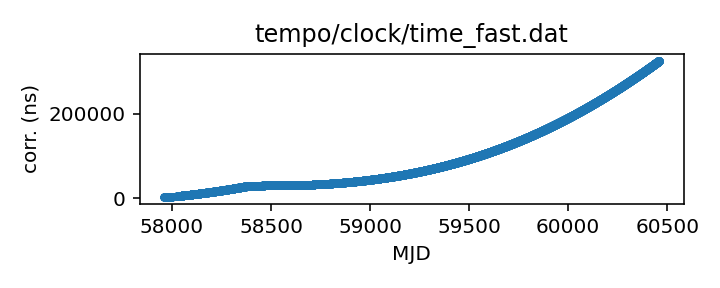
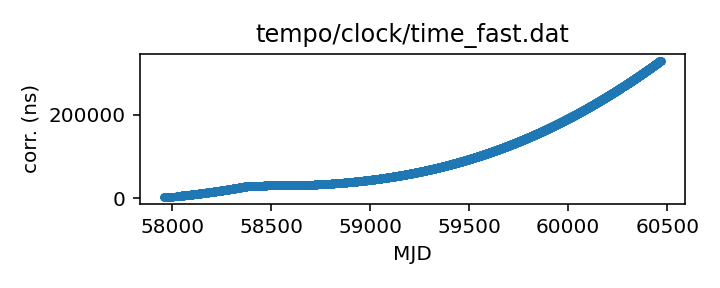
Routine gh-pages update from Github action Fri Jun  7 20:30:10 UTC 2024

diff --git a/status.md b/status.md
@@ -13,18 +13,18 @@ name of each clock file links to a page with more details.
 
 | Name | File | Corrections start | Corrections end | Last check date | Last check result 
 |:--- |:--- | --- | --- | --- |:--- 
-| [GPS to UTC](T2runtime/clock/gps2utc.clk.html) | `T2runtime/clock/gps2utc.clk` | 1993-01-01 MJD 48988.0 | 2024-04-29 MJD 60429.0 | 2024-06-06 | Unchanged 
-| [GPS to UTC (Combined Clock)](T2runtime/clock/gps2utc_cc.clk.html) | `T2runtime/clock/gps2utc_cc.clk` | 1993-01-01 MJD 48988.0 | 2024-04-29 MJD 60429.0 | 2024-06-06 | Unchanged 
-| [GPS to UTC (Corrected)](T2runtime/clock/gps2utc_c0p.clk.html) | `T2runtime/clock/gps2utc_c0p.clk` | 2010-12-29 MJD 55559.0 | 2024-04-29 MJD 60429.0 | 2024-06-06 | Unchanged 
-| [GBT](tempo/clock/time_gbt.dat.html) | `tempo/clock/time_gbt.dat` | 2000-12-31 MJD 51909.5 | 2024-05-18 MJD 60448.5 | 2024-06-06 | **Validation failed** 
+| [GPS to UTC](T2runtime/clock/gps2utc.clk.html) | `T2runtime/clock/gps2utc.clk` | 1993-01-01 MJD 48988.0 | 2024-04-29 MJD 60429.0 | 2024-06-07 | Unchanged 
+| [GPS to UTC (Combined Clock)](T2runtime/clock/gps2utc_cc.clk.html) | `T2runtime/clock/gps2utc_cc.clk` | 1993-01-01 MJD 48988.0 | 2024-04-29 MJD 60429.0 | 2024-06-07 | Unchanged 
+| [GPS to UTC (Corrected)](T2runtime/clock/gps2utc_c0p.clk.html) | `T2runtime/clock/gps2utc_c0p.clk` | 2010-12-29 MJD 55559.0 | 2024-04-29 MJD 60429.0 | 2024-06-07 | Unchanged 
+| [GBT](tempo/clock/time_gbt.dat.html) | `tempo/clock/time_gbt.dat` | 2000-12-31 MJD 51909.5 | 2024-05-18 MJD 60448.5 | 2024-06-07 | **Validation failed** 
 | [GBT (TEMPO2 converted from TEMPO)](T2runtime/clock/gbt2gps.clk.html) | `T2runtime/clock/gbt2gps.clk` | 2000-12-31 MJD 51909.5 | 2024-05-18 MJD 60448.5 | 2024-05-19 | Updated 
-| [Jodrell Bank](T2runtime/clock/jb2gps.clk.html) | `T2runtime/clock/jb2gps.clk` | 2006-10-13 MJD 54021.4 | 2023-12-04 MJD 60282.0 | 2024-05-31 | Unchanged 
-| [Jodrell Bank Roach](T2runtime/clock/jbroach2jb.clk.html) | `T2runtime/clock/jbroach2jb.clk` | 2006-10-13 MJD 54021.4 | 2018-03-20 MJD 58197.6 | 2024-05-31 | Unchanged 
-| [Jodrell Bank DFB](T2runtime/clock/jbdfb2jb.clk.html) | `T2runtime/clock/jbdfb2jb.clk` | 2006-10-13 MJD 54021.4 | 2017-05-11 MJD 57884.0 | 2024-05-31 | Unchanged 
-| [Meerkat (observatory)](T2runtime/clock/mk2utc_observatory.clk.html) | `T2runtime/clock/mk2utc_observatory.clk` | 2019-01-01 MJD 58484.0 | 2024-04-24 MJD 60425.0 | 2024-05-31 | Unchanged 
-| [Leap seconds](tempo/clock/leap.sec.html) | `tempo/clock/leap.sec` | 1972-07-01 MJD 41499.0 | 2017-01-01 MJD 57754.0 | 2024-06-06 | Unchanged 
-| [UT1 table](tempo/clock/ut1.dat.html) | `tempo/clock/ut1.dat` | 1973-01-02 MJD 41684.0 | 2025-06-14 MJD 60840.0 | 2024-06-06 | Updated 
-| [UT1 table](T2runtime/clock/ut1.dat.html) | `T2runtime/clock/ut1.dat` | 1973-01-02 MJD 41684.0 | 2025-06-14 MJD 60840.0 | 2024-06-06 | Updated 
+| [Jodrell Bank](T2runtime/clock/jb2gps.clk.html) | `T2runtime/clock/jb2gps.clk` | 2006-10-13 MJD 54021.4 | 2023-12-04 MJD 60282.0 | 2024-06-07 | Unchanged 
+| [Jodrell Bank Roach](T2runtime/clock/jbroach2jb.clk.html) | `T2runtime/clock/jbroach2jb.clk` | 2006-10-13 MJD 54021.4 | 2018-03-20 MJD 58197.6 | 2024-06-07 | Unchanged 
+| [Jodrell Bank DFB](T2runtime/clock/jbdfb2jb.clk.html) | `T2runtime/clock/jbdfb2jb.clk` | 2006-10-13 MJD 54021.4 | 2017-05-11 MJD 57884.0 | 2024-06-07 | Unchanged 
+| [Meerkat (observatory)](T2runtime/clock/mk2utc_observatory.clk.html) | `T2runtime/clock/mk2utc_observatory.clk` | 2019-01-01 MJD 58484.0 | 2024-04-24 MJD 60425.0 | 2024-06-07 | Unchanged 
+| [Leap seconds](tempo/clock/leap.sec.html) | `tempo/clock/leap.sec` | 1972-07-01 MJD 41499.0 | 2017-01-01 MJD 57754.0 | 2024-06-07 | Unchanged 
+| [UT1 table](tempo/clock/ut1.dat.html) | `tempo/clock/ut1.dat` | 1973-01-02 MJD 41684.0 | 2025-06-14 MJD 60840.0 | 2024-06-07 | Unchanged 
+| [UT1 table](T2runtime/clock/ut1.dat.html) | `T2runtime/clock/ut1.dat` | 1973-01-02 MJD 41684.0 | 2025-06-14 MJD 60840.0 | 2024-06-07 | Unchanged 
 
 
 
@@ -67,26 +67,26 @@ name of each clock file links to a page with more details.
 
 | Name | File | Corrections start | Corrections end | Last check date | Last check result 
 |:--- |:--- | --- | --- | --- |:--- 
-| [GPS to UTC (TEMPO2)](T2runtime/clock/gps2utc_tempo2.clk.html) | `T2runtime/clock/gps2utc_tempo2.clk` | 1996-03-27 MJD 50169.0 | 2022-10-27 MJD 59879.0 | 2024-05-31 | **Failed to download** 
-| [GBT (TEMPO2)](T2runtime/clock/gbt2gps_tempo2.clk.html) | `T2runtime/clock/gbt2gps_tempo2.clk` | 2000-12-31 MJD 51909.5 | 2020-02-25 MJD 58904.5 | 2024-05-31 | Unchanged 
-| [Jodrell Bank (TEMPO)](tempo/clock/time_jb.dat.html) | `tempo/clock/time_jb.dat` | 2006-10-13 MJD 54021.4 | 2019-05-13 MJD 58616.2 | 2024-05-31 | Unchanged 
-| [VLA](tempo/clock/time_vla.dat.html) | `tempo/clock/time_vla.dat` | 1990-10-27 MJD 48191.2 | 2021-03-07 MJD 59280.5 | 2024-05-31 | Unchanged 
-| [VLA (TEMPO2)](T2runtime/clock/vla2gps.clk.html) | `T2runtime/clock/vla2gps.clk` | 2015-02-01 MJD 57054.6 | 2021-03-07 MJD 59280.5 | 2024-05-31 | Unchanged 
-| [VLA to NIST](T2runtime/clock/vla2nist.clk.html) | `T2runtime/clock/vla2nist.clk` | 1990-10-27 MJD 48191.2 | 1993-11-13 MJD 49304.0 | 2024-05-31 | Unchanged 
-| [FAST](tempo/clock/time_fast.dat.html) | `tempo/clock/time_fast.dat` | 2017-07-27 MJD 57961.0 | 2024-05-29 MJD 60460.0 | 2024-05-31 | Updated 
-| [WSRT](T2runtime/clock/wsrt2gps.clk.html) | `T2runtime/clock/wsrt2gps.clk` | 1999-01-01 MJD 51179.5 | 2015-06-29 MJD 57202.1 | 2024-05-31 | Unchanged 
-| [WSRT (TEMPO)](tempo/clock/time_wsrt.dat.html) | `tempo/clock/time_wsrt.dat` | 1987-07-24 MJD 47000.0 | 2007-12-24 MJD 54458.0 | 2024-05-31 | **Validation failed** 
-| [Parkes](T2runtime/clock/pks2gps.clk.html) | `T2runtime/clock/pks2gps.clk` | 1858-11-17 MJD 0.0 | 2024-04-30 MJD 60430.1 | 2024-05-31 | Unchanged 
-| [Parkes (TEMPO)](tempo/clock/time_pks.dat.html) | `tempo/clock/time_pks.dat` | 1979-05-07 MJD 44000.0 | 2011-07-03 MJD 55745.8 | 2024-05-31 | **Validation failed** 
-| [SRT](T2runtime/clock/srt2gps.clk.html) | `T2runtime/clock/srt2gps.clk` | 2013-03-20 MJD 56371.0 | 2019-12-11 MJD 58828.0 | 2024-05-31 | Unchanged 
-| [Effelsberg](T2runtime/clock/eff2gps.clk.html) | `T2runtime/clock/eff2gps.clk` | 1993-11-29 MJD 49320.0 | 2015-06-22 MJD 57195.5 | 2024-05-31 | Unchanged 
-| [Effelsberg Asterix/PSRix](T2runtime/clock/effix2gps.clk.html) | `T2runtime/clock/effix2gps.clk` | 2011-01-01 MJD 55562.5 | 2021-03-21 MJD 59294.5 | 2024-05-31 | Unchanged 
-| [LEAP](T2runtime/clock/leap2effix.clk.html) | `T2runtime/clock/leap2effix.clk` | 2012-10-29 MJD 56230.0 | 2014-03-04 MJD 56720.0 | 2024-05-31 | Unchanged 
-| [NUPPI](tempo/clock/time_nuppi.dat.html) | `tempo/clock/time_nuppi.dat` | 2005-03-07 MJD 53436.0 | 2015-11-08 MJD 57334.6 | 2024-05-31 | Unchanged 
-| [Meerkat (TEMPO2)](T2runtime/clock/mk2utc.clk.html) | `T2runtime/clock/mk2utc.clk` | 2019-01-01 MJD 58484.0 | 2023-10-18 MJD 60235.9 | 2024-05-31 | Unchanged 
-| [MOST](T2runtime/clock/mo2gps.clk.html) | `T2runtime/clock/mo2gps.clk` | 2003-12-27 MJD 53000.0 | 2018-09-06 MJD 58367.0 | 2024-05-31 | Unchanged 
-| [Nancay to obspm](T2runtime/clock/ncyobs2obspm.clk.html) | `T2runtime/clock/ncyobs2obspm.clk` | 1988-05-18 MJD 47299.6 | 2023-10-27 MJD 60244.0 | 2024-05-31 | Unchanged 
-| [obspm](T2runtime/clock/obspm2gps.clk.html) | `T2runtime/clock/obspm2gps.clk` | 2003-12-01 MJD 52974.0 | 2023-10-27 MJD 60244.0 | 2024-05-31 | Unchanged 
+| [GPS to UTC (TEMPO2)](T2runtime/clock/gps2utc_tempo2.clk.html) | `T2runtime/clock/gps2utc_tempo2.clk` | 1996-03-27 MJD 50169.0 | 2022-10-27 MJD 59879.0 | 2024-06-07 | **Failed to download** 
+| [GBT (TEMPO2)](T2runtime/clock/gbt2gps_tempo2.clk.html) | `T2runtime/clock/gbt2gps_tempo2.clk` | 2000-12-31 MJD 51909.5 | 2020-02-25 MJD 58904.5 | 2024-06-07 | Unchanged 
+| [Jodrell Bank (TEMPO)](tempo/clock/time_jb.dat.html) | `tempo/clock/time_jb.dat` | 2006-10-13 MJD 54021.4 | 2019-05-13 MJD 58616.2 | 2024-06-07 | Unchanged 
+| [VLA](tempo/clock/time_vla.dat.html) | `tempo/clock/time_vla.dat` | 1990-10-27 MJD 48191.2 | 2021-03-07 MJD 59280.5 | 2024-06-07 | Unchanged 
+| [VLA (TEMPO2)](T2runtime/clock/vla2gps.clk.html) | `T2runtime/clock/vla2gps.clk` | 2015-02-01 MJD 57054.6 | 2021-03-07 MJD 59280.5 | 2024-06-07 | Unchanged 
+| [VLA to NIST](T2runtime/clock/vla2nist.clk.html) | `T2runtime/clock/vla2nist.clk` | 1990-10-27 MJD 48191.2 | 1993-11-13 MJD 49304.0 | 2024-06-07 | Unchanged 
+| [FAST](tempo/clock/time_fast.dat.html) | `tempo/clock/time_fast.dat` | 2017-07-27 MJD 57961.0 | 2024-06-05 MJD 60467.0 | 2024-06-07 | Updated 
+| [WSRT](T2runtime/clock/wsrt2gps.clk.html) | `T2runtime/clock/wsrt2gps.clk` | 1999-01-01 MJD 51179.5 | 2015-06-29 MJD 57202.1 | 2024-06-07 | Unchanged 
+| [WSRT (TEMPO)](tempo/clock/time_wsrt.dat.html) | `tempo/clock/time_wsrt.dat` | 1987-07-24 MJD 47000.0 | 2007-12-24 MJD 54458.0 | 2024-06-07 | **Validation failed** 
+| [Parkes](T2runtime/clock/pks2gps.clk.html) | `T2runtime/clock/pks2gps.clk` | 1858-11-17 MJD 0.0 | 2024-04-30 MJD 60430.1 | 2024-06-07 | Unchanged 
+| [Parkes (TEMPO)](tempo/clock/time_pks.dat.html) | `tempo/clock/time_pks.dat` | 1979-05-07 MJD 44000.0 | 2011-07-03 MJD 55745.8 | 2024-06-07 | **Validation failed** 
+| [SRT](T2runtime/clock/srt2gps.clk.html) | `T2runtime/clock/srt2gps.clk` | 2013-03-20 MJD 56371.0 | 2019-12-11 MJD 58828.0 | 2024-06-07 | Unchanged 
+| [Effelsberg](T2runtime/clock/eff2gps.clk.html) | `T2runtime/clock/eff2gps.clk` | 1993-11-29 MJD 49320.0 | 2015-06-22 MJD 57195.5 | 2024-06-07 | Unchanged 
+| [Effelsberg Asterix/PSRix](T2runtime/clock/effix2gps.clk.html) | `T2runtime/clock/effix2gps.clk` | 2011-01-01 MJD 55562.5 | 2021-03-21 MJD 59294.5 | 2024-06-07 | Unchanged 
+| [LEAP](T2runtime/clock/leap2effix.clk.html) | `T2runtime/clock/leap2effix.clk` | 2012-10-29 MJD 56230.0 | 2014-03-04 MJD 56720.0 | 2024-06-07 | Unchanged 
+| [NUPPI](tempo/clock/time_nuppi.dat.html) | `tempo/clock/time_nuppi.dat` | 2005-03-07 MJD 53436.0 | 2015-11-08 MJD 57334.6 | 2024-06-07 | Unchanged 
+| [Meerkat (TEMPO2)](T2runtime/clock/mk2utc.clk.html) | `T2runtime/clock/mk2utc.clk` | 2019-01-01 MJD 58484.0 | 2023-10-18 MJD 60235.9 | 2024-06-07 | Unchanged 
+| [MOST](T2runtime/clock/mo2gps.clk.html) | `T2runtime/clock/mo2gps.clk` | 2003-12-27 MJD 53000.0 | 2018-09-06 MJD 58367.0 | 2024-06-07 | Unchanged 
+| [Nancay to obspm](T2runtime/clock/ncyobs2obspm.clk.html) | `T2runtime/clock/ncyobs2obspm.clk` | 1988-05-18 MJD 47299.6 | 2023-10-27 MJD 60244.0 | 2024-06-07 | Unchanged 
+| [obspm](T2runtime/clock/obspm2gps.clk.html) | `T2runtime/clock/obspm2gps.clk` | 2003-12-01 MJD 52974.0 | 2023-10-27 MJD 60244.0 | 2024-06-07 | Unchanged 
 
 
 ### Further information:

diff --git a/tempo/clock/time_pks.dat.md b/tempo/clock/time_pks.dat.md
@@ -20,12 +20,11 @@ telescopes in the same file, distinguished only by observatory code.
 | Clock file start | 1979-05-07 MJD 44000.0 |
 | Clock file end | 2011-07-03 MJD 55745.8 |
 | Update interval (days) | 7 |
-| Last update attempt | 2024-05-31 |
+| Last update attempt | 2024-06-07 |
 | Last update result | Validation failed |
 
 Log entries from the last few update attempts:
 ```
-2024-03-14 20:29:37.280 - Validation failed: Unable to read new version of tempo/clock/time_pks.dat: Clock file /tmp/astropy-download-1789-i6da_346 appears to be out of order: 49959.0 > 49958.0
 2024-03-21 20:29:48.248 - Validation failed: Unable to read new version of tempo/clock/time_pks.dat: Clock file /tmp/astropy-download-1983-p8p10h_t appears to be out of order: 49959.0 > 49958.0
 2024-03-28 20:29:38.584 - Validation failed: Unable to read new version of tempo/clock/time_pks.dat: Clock file /tmp/astropy-download-1896-_vjbhals appears to be out of order: 49959.0 > 49958.0
 2024-04-04 20:29:35.826 - Validation failed: Unable to read new version of tempo/clock/time_pks.dat: Clock file /tmp/astropy-download-1911-3h73zqv4 appears to be out of order: 49959.0 > 49958.0
@@ -35,6 +34,7 @@ Log entries from the last few update attempts:
 2024-05-17 20:29:45.220 - Validation failed: Unable to read new version of tempo/clock/time_pks.dat: Clock file /tmp/astropy-download-1787-teivf2pi appears to be out of order: 49959.0 > 49958.0
 2024-05-24 20:29:37.029 - Validation failed: Unable to read new version of tempo/clock/time_pks.dat: Clock file /tmp/astropy-download-1896-lx9qc25x appears to be out of order: 49959.0 > 49958.0
 2024-05-31 20:29:34.723 - Validation failed: Unable to read new version of tempo/clock/time_pks.dat: Clock file /tmp/astropy-download-1808-9uv0anl1 appears to be out of order: 49959.0 > 49958.0
+2024-06-07 20:29:32.720 - Validation failed: Unable to read new version of tempo/clock/time_pks.dat: Clock file /tmp/astropy-download-1810-bf_kz8b_ appears to be out of order: 49959.0 > 49958.0
 ```
 [Full log](https://raw.githubusercontent.com/ipta/pulsar-clock-corrections/main/log/tempo/clock/time_pks.dat.log)
 

diff --git a/tempo/clock/time_wsrt.dat.md b/tempo/clock/time_wsrt.dat.md
@@ -20,12 +20,11 @@ should be the same information.
 | Clock file start | 1987-07-24 MJD 47000.0 |
 | Clock file end | 2007-12-24 MJD 54458.0 |
 | Update interval (days) | 7 |
-| Last update attempt | 2024-05-31 |
+| Last update attempt | 2024-06-07 |
 | Last update result | Validation failed |
 
 Log entries from the last few update attempts:
 ```
-2024-03-14 20:29:28.740 - Validation failed: Unable to read new version of tempo/clock/time_wsrt.dat: Clock file /tmp/astropy-download-1789-qmkos7mt appears to be out of order: 53000.05 > 53000.0
 2024-03-21 20:29:42.142 - Validation failed: Unable to read new version of tempo/clock/time_wsrt.dat: Clock file /tmp/astropy-download-1983-7dg1tve1 appears to be out of order: 53000.05 > 53000.0
 2024-03-28 20:29:34.065 - Validation failed: Unable to read new version of tempo/clock/time_wsrt.dat: Clock file /tmp/astropy-download-1896-xbrtefzd appears to be out of order: 53000.05 > 53000.0
 2024-04-04 20:29:30.644 - Validation failed: Unable to read new version of tempo/clock/time_wsrt.dat: Clock file /tmp/astropy-download-1911-2suothm5 appears to be out of order: 53000.05 > 53000.0
@@ -35,6 +34,7 @@ Log entries from the last few update attempts:
 2024-05-17 20:29:41.596 - Validation failed: Unable to read new version of tempo/clock/time_wsrt.dat: Clock file /tmp/astropy-download-1787-h7p7w40s appears to be out of order: 53000.05 > 53000.0
 2024-05-24 20:29:31.949 - Validation failed: Unable to read new version of tempo/clock/time_wsrt.dat: Clock file /tmp/astropy-download-1896-o2eimvbo appears to be out of order: 53000.05 > 53000.0
 2024-05-31 20:29:29.819 - Validation failed: Unable to read new version of tempo/clock/time_wsrt.dat: Clock file /tmp/astropy-download-1808-s7arrwqh appears to be out of order: 53000.05 > 53000.0
+2024-06-07 20:29:27.848 - Validation failed: Unable to read new version of tempo/clock/time_wsrt.dat: Clock file /tmp/astropy-download-1810-vr839f9d appears to be out of order: 53000.05 > 53000.0
 ```
 [Full log](https://raw.githubusercontent.com/ipta/pulsar-clock-corrections/main/log/tempo/clock/time_wsrt.dat.log)
 

diff --git a/tempo/clock/time_gbt.dat.md b/tempo/clock/time_gbt.dat.md
@@ -33,12 +33,11 @@ If questions arise, contact Ryan S. Lynch <rlynch@nrao.edu>.
 | Clock file start | 2000-12-31 MJD 51909.5 |
 | Clock file end | 2024-05-18 MJD 60448.5 |
 | Update interval (days) | 1 |
-| Last update attempt | 2024-06-06 |
+| Last update attempt | 2024-06-07 |
 | Last update result | Validation failed |
 
 Log entries from the last few update attempts:
 ```
-2024-05-28 20:29:17.932 - Validation failed: New version of tempo/clock/time_gbt.dat clock corrections differ from old version where they overlap in 11 places
 2024-05-29 20:29:34.110 - Validation failed: New version of tempo/clock/time_gbt.dat clock corrections differ from old version where they overlap in 11 places
 2024-05-30 20:29:33.246 - Validation failed: New version of tempo/clock/time_gbt.dat clock corrections differ from old version where they overlap in 11 places
 2024-05-31 20:29:26.453 - Validation failed: New version of tempo/clock/time_gbt.dat clock corrections differ from old version where they overlap in 11 places
@@ -48,6 +47,7 @@ Log entries from the last few update attempts:
 2024-06-04 20:29:33.484 - Failed to download: The read operation timed out
 2024-06-05 20:29:46.522 - Failed to download: The read operation timed out
 2024-06-06 20:31:26.581 - Validation failed: New version of tempo/clock/time_gbt.dat clock corrections differ from old version where they overlap in 11 places
+2024-06-07 20:29:24.989 - Validation failed: New version of tempo/clock/time_gbt.dat clock corrections differ from old version where they overlap in 11 places
 ```
 [Full log](https://raw.githubusercontent.com/ipta/pulsar-clock-corrections/main/log/tempo/clock/time_gbt.dat.log)
 

diff --git a/T2runtime/clock/gps2utc_tempo2.clk.md b/T2runtime/clock/gps2utc_tempo2.clk.md
@@ -27,12 +27,11 @@ are from the column C0').
 | Clock file start | 1996-03-27 MJD 50169.0 |
 | Clock file end | 2022-10-27 MJD 59879.0 |
 | Update interval (days) | 7 |
-| Last update attempt | 2024-05-31 |
+| Last update attempt | 2024-06-07 |
 | Last update result | Failed to download |
 
 Log entries from the last few update attempts:
 ```
-2024-03-14 20:29:07.069 - Unchanged
 2024-03-21 20:29:14.689 - Unchanged
 2024-03-28 20:29:07.305 - Unchanged
 2024-04-04 20:29:06.650 - Unchanged
@@ -42,6 +41,7 @@ Log entries from the last few update attempts:
 2024-05-17 20:29:05.507 - Failed to download: HTTP Error 404: Not Found
 2024-05-24 20:29:09.014 - Failed to download: HTTP Error 404: Not Found
 2024-05-31 20:29:06.760 - Failed to download: HTTP Error 404: Not Found
+2024-06-07 20:29:04.633 - Failed to download: HTTP Error 404: Not Found
 ```
 [Full log](https://raw.githubusercontent.com/ipta/pulsar-clock-corrections/main/log/T2runtime/clock/gps2utc_tempo2.clk.log)
 

diff --git a/tempo/clock/time_fast.dat.md b/tempo/clock/time_fast.dat.md
@@ -14,14 +14,13 @@ This file is pulled from the FAST_ClockFile repository.
 | Format | tempo |
 | Bogus last correction | False |
 | Clock file start | 2017-07-27 MJD 57961.0 |
-| Clock file end | 2024-05-29 MJD 60460.0 |
+| Clock file end | 2024-06-05 MJD 60467.0 |
 | Update interval (days) | 7 |
-| Last update attempt | 2024-05-31 |
+| Last update attempt | 2024-06-07 |
 | Last update result | Updated |
 
 Log entries from the last few update attempts:
 ```
-2024-03-14 20:29:28.347 - Updated
 2024-03-21 20:29:41.522 - Updated
 2024-03-28 20:29:33.443 - Updated
 2024-04-04 20:29:30.240 - Updated
@@ -31,6 +30,7 @@ Log entries from the last few update attempts:
 2024-05-17 20:29:40.999 - Updated
 2024-05-24 20:29:31.229 - Updated
 2024-05-31 20:29:29.072 - Updated
+2024-06-07 20:29:27.480 - Updated
 ```
 [Full log](https://raw.githubusercontent.com/ipta/pulsar-clock-corrections/main/log/tempo/clock/time_fast.dat.log)
 

diff --git a/T2runtime/clock/mk2utc_observatory.clk.md b/T2runtime/clock/mk2utc_observatory.clk.md
@@ -21,12 +21,11 @@ If questions arise, contact Ryan Shannon <rshannon@swin.edu.au>
 | Clock file start | 2019-01-01 MJD 58484.0 |
 | Clock file end | 2024-04-24 MJD 60425.0 |
 | Update interval (days) | 7 |
-| Last update attempt | 2024-05-31 |
+| Last update attempt | 2024-06-07 |
 | Last update result | Unchanged |
 
 Log entries from the last few update attempts:
 ```
-2024-03-14 20:29:41.493 - Unchanged
 2024-03-21 20:29:53.172 - Unchanged
 2024-03-28 20:29:51.405 - Unchanged
 2024-04-04 20:29:44.899 - Unchanged
@@ -36,6 +35,7 @@ Log entries from the last few update attempts:
 2024-05-17 20:29:50.578 - Unchanged
 2024-05-24 20:29:41.581 - Unchanged
 2024-05-31 20:29:41.668 - Unchanged
+2024-06-07 20:29:36.289 - Unchanged
 ```
 [Full log](https://raw.githubusercontent.com/ipta/pulsar-clock-corrections/main/log/T2runtime/clock/mk2utc_observatory.clk.log)
 

diff --git a/T2runtime/clock/gps2utc_c0p.clk.md b/T2runtime/clock/gps2utc_c0p.clk.md
@@ -30,12 +30,11 @@ about the BIPM's published corrections, contact <tai@bipm.org>.
 | Clock file start | 2010-12-29 MJD 55559.0 |
 | Clock file end | 2024-04-29 MJD 60429.0 |
 | Update interval (days) | 1 |
-| Last update attempt | 2024-06-06 |
+| Last update attempt | 2024-06-07 |
 | Last update result | Unchanged |
 
 Log entries from the last few update attempts:
 ```
-2024-05-28 20:29:17.178 - Unchanged
 2024-05-29 20:29:33.668 - Unchanged
 2024-05-30 20:29:32.845 - Unchanged
 2024-05-31 20:29:25.949 - Unchanged
@@ -45,6 +44,7 @@ Log entries from the last few update attempts:
 2024-06-04 20:29:23.123 - Unchanged
 2024-06-05 20:29:36.245 - Unchanged
 2024-06-06 20:31:26.091 - Unchanged
+2024-06-07 20:29:24.650 - Unchanged
 ```
 [Full log](https://raw.githubusercontent.com/ipta/pulsar-clock-corrections/main/log/T2runtime/clock/gps2utc_c0p.clk.log)
 

diff --git a/T2runtime/clock/gps2utc_cc.clk.md b/T2runtime/clock/gps2utc_cc.clk.md
@@ -29,12 +29,11 @@ about the BIPM's published corrections, contact <tai@bipm.org>.
 | Clock file start | 1993-01-01 MJD 48988.0 |
 | Clock file end | 2024-04-29 MJD 60429.0 |
 | Update interval (days) | 1 |
-| Last update attempt | 2024-06-06 |
+| Last update attempt | 2024-06-07 |
 | Last update result | Unchanged |
 
 Log entries from the last few update attempts:
 ```
-2024-05-28 20:29:17.170 - Unchanged
 2024-05-29 20:29:33.659 - Unchanged
 2024-05-30 20:29:32.836 - Unchanged
 2024-05-31 20:29:25.939 - Unchanged
@@ -44,6 +43,7 @@ Log entries from the last few update attempts:
 2024-06-04 20:29:23.114 - Unchanged
 2024-06-05 20:29:36.236 - Unchanged
 2024-06-06 20:31:26.081 - Unchanged
+2024-06-07 20:29:24.641 - Unchanged
 ```
 [Full log](https://raw.githubusercontent.com/ipta/pulsar-clock-corrections/main/log/T2runtime/clock/gps2utc_cc.clk.log)
 

diff --git a/T2runtime/clock/gps2utc.clk.md b/T2runtime/clock/gps2utc.clk.md
@@ -32,12 +32,11 @@ about the BIPM's published corrections, contact <tai@bipm.org>.
 | Clock file start | 1993-01-01 MJD 48988.0 |
 | Clock file end | 2024-04-29 MJD 60429.0 |
 | Update interval (days) | 1 |
-| Last update attempt | 2024-06-06 |
+| Last update attempt | 2024-06-07 |
 | Last update result | Unchanged |
 
 Log entries from the last few update attempts:
 ```
-2024-05-28 20:29:17.144 - Unchanged
 2024-05-29 20:29:33.634 - Unchanged
 2024-05-30 20:29:32.811 - Unchanged
 2024-05-31 20:29:25.914 - Unchanged
@@ -47,6 +46,7 @@ Log entries from the last few update attempts:
 2024-06-04 20:29:23.088 - Unchanged
 2024-06-05 20:29:36.210 - Unchanged
 2024-06-06 20:31:26.055 - Unchanged
+2024-06-07 20:29:24.616 - Unchanged
 ```
 [Full log](https://raw.githubusercontent.com/ipta/pulsar-clock-corrections/main/log/T2runtime/clock/gps2utc.clk.log)
 

diff --git a/T2runtime/clock/ut1.dat.md b/T2runtime/clock/ut1.dat.md
@@ -30,12 +30,11 @@ If there are any questions, contact Anne Archibald
 | File start | 1973-01-02 MJD 41684.0 |
 | File end | 2025-06-14 MJD 60840.0 |
 | Update interval (days) | 0 |
-| Last update attempt | 2024-06-06 |
-| Last update result | Updated |
+| Last update attempt | 2024-06-07 |
+| Last update result | Unchanged |
 
 Log entries from the last few update attempts:
 ```
-2024-05-28 20:29:25.794 - Unchanged
 2024-05-29 20:29:41.796 - Unchanged
 2024-05-30 20:29:42.303 - Updated
 2024-05-31 20:29:50.961 - Unchanged
@@ -45,5 +44,6 @@ Log entries from the last few update attempts:
 2024-06-04 20:29:41.483 - Unchanged
 2024-06-05 20:29:55.573 - Unchanged
 2024-06-06 20:31:34.567 - Updated
+2024-06-07 20:29:51.513 - Unchanged
 ```
 [Full log](https://raw.githubusercontent.com/ipta/pulsar-clock-corrections/main/log/T2runtime/clock/ut1.dat.log)

diff --git a/T2runtime/clock/ncyobs2obspm.clk.md b/T2runtime/clock/ncyobs2obspm.clk.md
@@ -22,12 +22,11 @@ thus here) can be expected to be somewhat up to date.
 | Clock file start | 1988-05-18 MJD 47299.6 |
 | Clock file end | 2023-10-27 MJD 60244.0 |
 | Update interval (days) | 7 |
-| Last update attempt | 2024-05-31 |
+| Last update attempt | 2024-06-07 |
 | Last update result | Unchanged |
 
 Log entries from the last few update attempts:
 ```
-2024-03-13 20:29:17.034 - Unchanged
 2024-03-20 20:29:34.302 - Unchanged
 2024-03-27 20:29:23.306 - Unchanged
 2024-04-03 20:29:22.441 - Unchanged
@@ -37,6 +36,7 @@ Log entries from the last few update attempts:
 2024-05-17 20:29:52.144 - Unchanged
 2024-05-24 20:29:42.191 - Unchanged
 2024-05-31 20:29:42.384 - Unchanged
+2024-06-07 20:29:36.852 - Unchanged
 ```
 [Full log](https://raw.githubusercontent.com/ipta/pulsar-clock-corrections/main/log/T2runtime/clock/ncyobs2obspm.clk.log)
 
